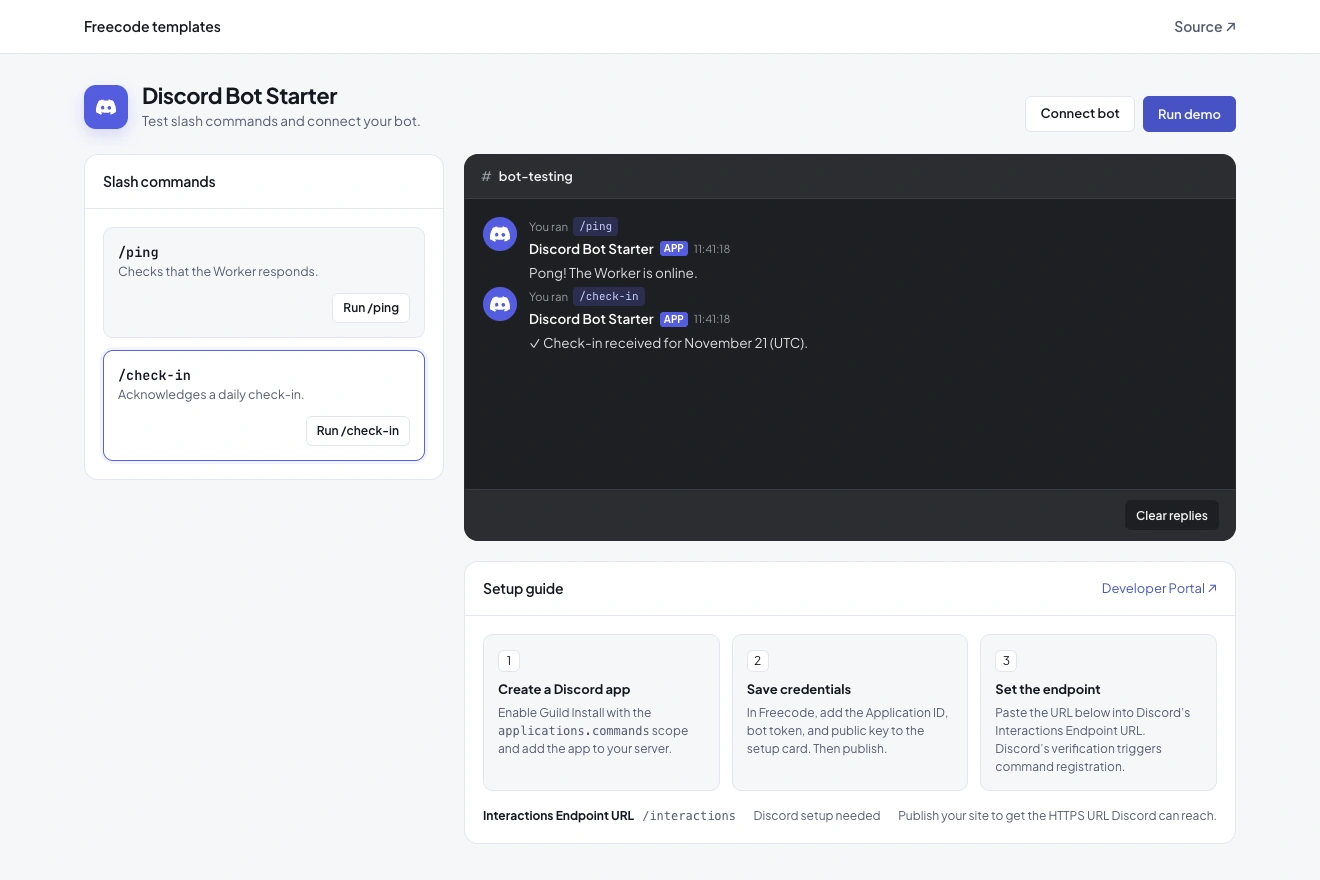
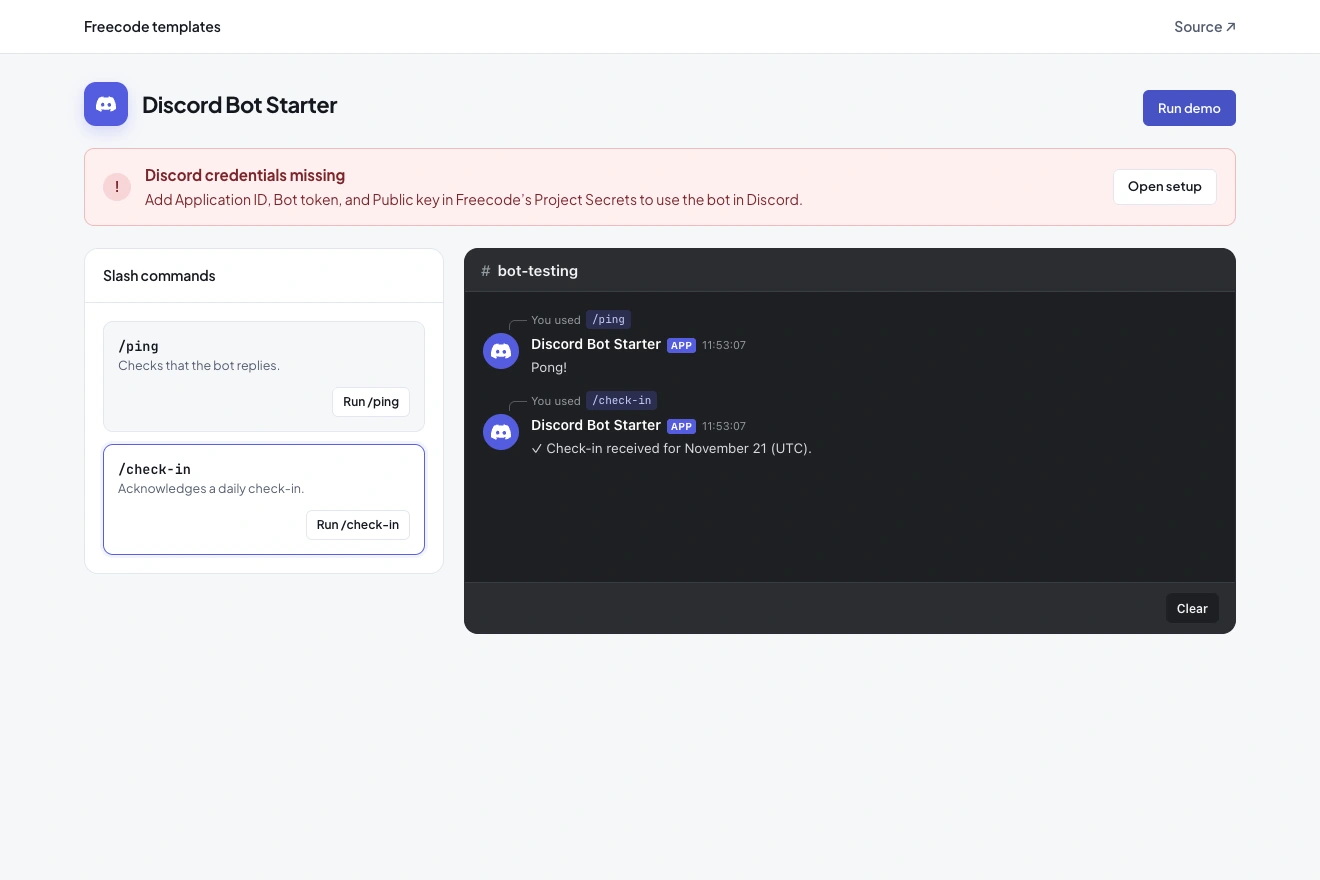
Show missing credentials and simplify Discord replies

diff --git a/public/index.html b/public/index.html
@@ -11,44 +11,51 @@
   <link rel="stylesheet" href="/styles.css">
 </head>
 <body>
-  <a class="skip-link" href="#console">Skip to content</a>
+  <a class="skip-link" href="#main">Skip to content</a>
   <header class="site-bar">
     <div class="site-bar-inner">
       <a href="https://freecode.sh/templates/discord-roll-call">Freecode templates</a>
       <a class="source-link" href="https://github.com/freecode-sh/discord-roll-call">Source <span aria-hidden="true">↗</span></a>
     </div>
   </header>
-  <main class="view-root" id="console">
-    <header class="dash-header">
-      <div class="dash-title-group">
-        <div class="bot-badge"><svg width="20" height="20" viewBox="0 0 24 24" fill="currentColor" aria-hidden="true"><path d="M20.317 4.37a19.791 19.791 0 0 0-4.885-1.515.074.074 0 0 0-.079.037c-.21.375-.444.864-.608 1.25a18.27 18.27 0 0 0-5.487 0 12.64 12.64 0 0 0-.617-1.25.077.077 0 0 0-.079-.037A19.736 19.736 0 0 0 3.677 4.37a.07.07 0 0 0-.032.027C.533 9.046-.32 13.58.099 18.057a.082.082 0 0 0 .031.057 19.9 19.9 0 0 0 5.993 3.03.078.078 0 0 0 .084-.028c.462-.63.874-1.295 1.226-1.994a.076.076 0 0 0-.041-.106 13.107 13.107 0 0 1-1.872-.892.077.077 0 0 1-.008-.128 10.2 10.2 0 0 0 .372-.292.074.074 0 0 1 .077-.01c3.928 1.793 8.18 1.793 12.062 0a.074.074 0 0 1 .078.01c.12.098.246.198.373.292a.077.077 0 0 1-.006.127 12.299 12.299 0 0 1-1.873.892.077.077 0 0 0-.041.107c.36.698.772 1.362 1.225 1.993a.076.076 0 0 0 .084.028 19.839 19.839 0 0 0 6.002-3.03.077.077 0 0 0 .032-.054c.5-5.177-.838-9.674-3.549-13.66a.061.061 0 0 0-.031-.028zM8.02 15.33c-1.183 0-2.157-1.085-2.157-2.419 0-1.333.956-2.419 2.157-2.419 1.21 0 2.176 1.096 2.157 2.42 0 1.333-.956 2.418-2.157 2.418zm7.975 0c-1.183 0-2.157-1.085-2.157-2.419 0-1.333.955-2.419 2.157-2.419 1.21 0 2.176 1.096 2.157 2.42 0 1.333-.946 2.418-2.157 2.418z"/></svg></div>
+  <main class="view-root" id="main">
+    <div class="dashboard-view" id="console">
+      <header class="dash-header">
+        <div class="dash-title-group">
+          <div class="bot-badge"><svg width="20" height="20" viewBox="0 0 24 24" fill="currentColor" aria-hidden="true"><path d="M20.317 4.37a19.791 19.791 0 0 0-4.885-1.515.074.074 0 0 0-.079.037c-.21.375-.444.864-.608 1.25a18.27 18.27 0 0 0-5.487 0 12.64 12.64 0 0 0-.617-1.25.077.077 0 0 0-.079-.037A19.736 19.736 0 0 0 3.677 4.37a.07.07 0 0 0-.032.027C.533 9.046-.32 13.58.099 18.057a.082.082 0 0 0 .031.057 19.9 19.9 0 0 0 5.993 3.03.078.078 0 0 0 .084-.028c.462-.63.874-1.295 1.226-1.994a.076.076 0 0 0-.041-.106 13.107 13.107 0 0 1-1.872-.892.077.077 0 0 1-.008-.128 10.2 10.2 0 0 0 .372-.292.074.074 0 0 1 .077-.01c3.928 1.793 8.18 1.793 12.062 0a.074.074 0 0 1 .078.01c.12.098.246.198.373.292a.077.077 0 0 1-.006.127 12.299 12.299 0 0 1-1.873.892.077.077 0 0 0-.041.107c.36.698.772 1.362 1.225 1.993a.076.076 0 0 0 .084.028 19.839 19.839 0 0 0 6.002-3.03.077.077 0 0 0 .032-.054c.5-5.177-.838-9.674-3.549-13.66a.061.061 0 0 0-.031-.028zM8.02 15.33c-1.183 0-2.157-1.085-2.157-2.419 0-1.333.956-2.419 2.157-2.419 1.21 0 2.176 1.096 2.157 2.42 0 1.333-.956 2.418-2.157 2.418zm7.975 0c-1.183 0-2.157-1.085-2.157-2.419 0-1.333.955-2.419 2.157-2.419 1.21 0 2.176 1.096 2.157 2.42 0 1.333-.946 2.418-2.157 2.418z"/></svg></div>
+          <div>
+            <h1 class="dash-title">Discord Bot Starter</h1>
+          </div>
+        </div>
+        <div class="dash-header-actions">
+          <a href="#setup" class="btn btn-secondary" id="manage-discord">Discord setup</a>
+          <button class="btn btn-primary" id="run-demo" type="button">Run demo</button>
+        </div>
+      </header>
+      <section id="discord-error" class="credential-alert" role="alert" hidden>
+        <span class="credential-alert-icon" aria-hidden="true">!</span>
         <div>
-          <h1 class="dash-title">Discord Bot Starter</h1>
-          <p class="dash-subtitle">Test slash commands and connect your bot.</p>
+          <h2 id="discord-error-title">Discord credentials missing</h2>
+          <p id="discord-error-details"></p>
         </div>
-      </div>
-      <div class="dash-header-actions">
-        <a href="#setup" class="btn btn-secondary">Connect bot</a>
-        <button class="btn btn-primary" id="run-demo" type="button">Run demo</button>
-      </div>
-    </header>
-    <div class="dash-grid">
-      <section class="panel" aria-labelledby="commands-heading">
-        <header class="panel-head"><h2 class="panel-title" id="commands-heading">Slash commands</h2></header>
-        <div class="panel-body cmd-list">
-          <article class="cmd-card">
-            <h3 class="cmd-name">/ping</h3>
-            <p class="cmd-desc">Checks that the Worker responds.</p>
-            <div class="cmd-actions"><button class="btn btn-secondary btn-sm" data-command="ping" type="button">Run /ping</button></div>
-          </article>
-          <article class="cmd-card">
-            <h3 class="cmd-name">/check-in</h3>
-            <p class="cmd-desc">Acknowledges a daily check-in.</p>
-            <div class="cmd-actions"><button class="btn btn-secondary btn-sm" data-command="check-in" type="button">Run /check-in</button></div>
-          </article>
-        </div>
+        <a href="#setup" class="btn btn-secondary">Open setup</a>
       </section>
-      <div class="stage-stack">
+      <div class="dash-grid">
+        <section class="panel" aria-labelledby="commands-heading">
+          <header class="panel-head"><h2 class="panel-title" id="commands-heading">Slash commands</h2></header>
+          <div class="panel-body cmd-list">
+            <article class="cmd-card">
+              <h3 class="cmd-name">/ping</h3>
+              <p class="cmd-desc">Checks that the bot replies.</p>
+              <div class="cmd-actions"><button class="btn btn-secondary btn-sm" data-command="ping" type="button">Run /ping</button></div>
+            </article>
+            <article class="cmd-card">
+              <h3 class="cmd-name">/check-in</h3>
+              <p class="cmd-desc">Acknowledges a daily check-in.</p>
+              <div class="cmd-actions"><button class="btn btn-secondary btn-sm" data-command="check-in" type="button">Run /check-in</button></div>
+            </article>
+          </div>
+        </section>
         <section class="discord-stage" aria-labelledby="replies-heading">
           <header class="discord-topbar">
             <h2 class="discord-channel" id="replies-heading"><span class="discord-hash" aria-hidden="true">#</span> bot-testing</h2>
@@ -59,42 +66,45 @@
           </div>
           <footer class="discord-footer-bar">
             <span class="visually-hidden" id="reply" role="status"></span>
-            <button type="button" id="reset" class="btn btn-sm" disabled>Clear replies</button>
+            <button type="button" id="reset" class="btn btn-sm" disabled>Clear</button>
           </footer>
-        </section>
-        <section class="panel setup-guide" id="setup" aria-labelledby="setup-heading">
-          <header class="panel-head">
-            <h2 class="panel-title" id="setup-heading">Setup guide</h2>
-            <a class="guide-link" href="https://discord.com/developers/applications" target="_blank" rel="noreferrer">Developer Portal <span aria-hidden="true">↗</span></a>
-          </header>
-          <div class="panel-body">
-            <ol class="guide-steps">
-              <li><span class="step-number" aria-hidden="true">1</span><h3>Create a Discord app</h3><p>Enable Guild Install with the <code>applications.commands</code> scope and add the app to your server.</p></li>
-              <li><span class="step-number" aria-hidden="true">2</span><h3>Save credentials</h3><p>In Freecode, add the Application ID, bot token, and public key to the setup card. Then publish.</p></li>
-              <li><span class="step-number" aria-hidden="true">3</span><h3>Set the endpoint</h3><p>Paste the URL below into Discord’s Interactions Endpoint URL. Discord’s verification triggers command registration.</p></li>
-            </ol>
-            <div class="setup-endpoint">
-              <div>
-                <strong>Interactions Endpoint URL</strong>
-                <code id="endpoint">/interactions</code>
-              </div>
-              <div>
-                <output id="signing-key" data-state="loading">Checking credentials</output>
-                <button id="copy-endpoint" type="button" class="btn btn-secondary btn-sm">Copy endpoint</button>
-              </div>
-              <p id="endpoint-description" hidden></p>
-              <p id="copy-status" class="visually-hidden" role="status"></p>
-            </div>
-          </div>
         </section>
       </div>
     </div>
+    <section id="setup" class="setup-view" hidden>
+      <a class="guide-link" href="#console">← Dashboard</a>
+      <section class="panel setup-guide" aria-labelledby="setup-heading">
+        <header class="panel-head">
+          <h2 class="panel-title" id="setup-heading">Setup guide</h2>
+          <a class="guide-link" href="https://discord.com/developers/applications" target="_blank" rel="noreferrer">Developer Portal <span aria-hidden="true">↗</span></a>
+        </header>
+        <div class="panel-body">
+          <ol class="guide-steps">
+            <li><span class="step-number" aria-hidden="true">1</span><h3>Create a Discord app</h3><p>Enable Guild Install with the <code>applications.commands</code> scope and add the app to your server.</p></li>
+            <li><span class="step-number" aria-hidden="true">2</span><h3>Save credentials</h3><p>In Freecode, add the Application ID, bot token, and public key to the setup card. Then publish.</p></li>
+            <li><span class="step-number" aria-hidden="true">3</span><h3>Set the endpoint</h3><p>Paste the URL below into Discord’s Interactions Endpoint URL. Discord’s verification triggers command registration.</p></li>
+          </ol>
+          <div class="setup-endpoint">
+            <div>
+              <strong>Interactions Endpoint URL</strong>
+              <code id="endpoint">/interactions</code>
+            </div>
+            <div>
+              <output id="signing-key" data-state="loading">Checking credentials</output>
+              <button id="copy-endpoint" type="button" class="btn btn-secondary btn-sm">Copy endpoint</button>
+            </div>
+            <p id="endpoint-description" hidden></p>
+            <p id="copy-status" class="visually-hidden" role="status"></p>
+          </div>
+        </div>
+      </section>
+    </section>
   </main>
   <template id="reply-template">
     <li class="discord-msg">
+      <div class="discord-slash-ref">You used <code class="discord-slash-pill"></code></div>
       <span class="discord-avatar" aria-hidden="true"><svg width="20" height="20" viewBox="0 0 24 24" fill="currentColor" aria-hidden="true"><path d="M20.317 4.37a19.791 19.791 0 0 0-4.885-1.515.074.074 0 0 0-.079.037c-.21.375-.444.864-.608 1.25a18.27 18.27 0 0 0-5.487 0 12.64 12.64 0 0 0-.617-1.25.077.077 0 0 0-.079-.037A19.736 19.736 0 0 0 3.677 4.37a.07.07 0 0 0-.032.027C.533 9.046-.32 13.58.099 18.057a.082.082 0 0 0 .031.057 19.9 19.9 0 0 0 5.993 3.03.078.078 0 0 0 .084-.028c.462-.63.874-1.295 1.226-1.994a.076.076 0 0 0-.041-.106 13.107 13.107 0 0 1-1.872-.892.077.077 0 0 1-.008-.128 10.2 10.2 0 0 0 .372-.292.074.074 0 0 1 .077-.01c3.928 1.793 8.18 1.793 12.062 0a.074.074 0 0 1 .078.01c.12.098.246.198.373.292a.077.077 0 0 1-.006.127 12.299 12.299 0 0 1-1.873.892.077.077 0 0 0-.041.107c.36.698.772 1.362 1.225 1.993a.076.076 0 0 0 .084.028 19.839 19.839 0 0 0 6.002-3.03.077.077 0 0 0 .032-.054c.5-5.177-.838-9.674-3.549-13.66a.061.061 0 0 0-.031-.028zM8.02 15.33c-1.183 0-2.157-1.085-2.157-2.419 0-1.333.956-2.419 2.157-2.419 1.21 0 2.176 1.096 2.157 2.42 0 1.333-.956 2.418-2.157 2.418zm7.975 0c-1.183 0-2.157-1.085-2.157-2.419 0-1.333.955-2.419 2.157-2.419 1.21 0 2.176 1.096 2.157 2.42 0 1.333-.946 2.418-2.157 2.418z"/></svg></span>
       <div class="discord-msg-body">
-        <div class="discord-slash-ref">You ran <code class="discord-slash-pill"></code></div>
         <div class="discord-author-row"><strong class="discord-author">Discord Bot Starter</strong><span class="discord-app-tag">APP</span><time class="discord-time"></time></div>
         <p class="discord-text"></p>
       </div>

diff --git a/public/demo.js b/public/demo.js
@@ -6,6 +6,16 @@ const demo = document.querySelector('#run-demo')
 const template = document.querySelector('#reply-template')
 const reset = document.querySelector('#reset')
 const key = document.querySelector('#signing-key')
+const manageDiscord = document.querySelector('#manage-discord')
+const setupError = document.querySelector('#discord-error')
+const errorTitle = document.querySelector('#discord-error-title')
+const errorDetails = document.querySelector('#discord-error-details')
+const credentialLabels = {
+  DISCORD_APP_ID: 'Application ID',
+  DISCORD_BOT_TOKEN: 'Bot token',
+  DISCORD_PUBLIC_KEY: 'Public key',
+}
+const credentialList = new Intl.ListFormat('en', { type: 'conjunction' })
 const endpoint = document.querySelector('#endpoint')
 const copy = document.querySelector('#copy-endpoint')
 const copyStatus = document.querySelector('#copy-status')
@@ -29,12 +39,22 @@ async function readWorkerStatus() {
     const response = await fetch('/api/status', { signal: AbortSignal.timeout(5000) })
     if (!response.ok) throw new Error('Status request failed')
     const status = await response.json()
-    if (status.worker !== 'online' || typeof status.discordConfigured !== 'boolean') throw new Error('Invalid status')
-    key.textContent = status.discordConfigured ? 'Credentials saved' : 'Discord setup needed'
-    key.dataset.state = status.discordConfigured ? 'ready' : 'missing'
+    if (status.worker !== 'online' || !Array.isArray(status.discordMissing)) throw new Error('Invalid status')
+    const missing = status.discordMissing.map(name => credentialLabels[name]).filter(Boolean)
+    key.textContent = missing.length ? 'Credentials missing' : 'Credentials saved'
+    key.dataset.state = missing.length ? 'missing' : 'ready'
+    manageDiscord.hidden = missing.length > 0
+    if (missing.length) {
+      errorDetails.textContent = `Add ${credentialList.format(missing)} in Freecode’s Project Secrets to use the bot in Discord.`
+      setupError.hidden = false
+    }
   } catch {
-    key.textContent = 'Couldn’t check Discord setup'
+    key.textContent = 'Couldn’t check credentials'
     key.dataset.state = 'unavailable'
+    manageDiscord.hidden = true
+    errorTitle.textContent = 'Couldn’t check Discord credentials'
+    errorDetails.textContent = 'Reload the dashboard to try again.'
+    setupError.hidden = false
   }
 }
 
@@ -118,4 +138,12 @@ copy.addEventListener('click', async () => {
   }
 })
 
+function showView() {
+  const setup = location.hash === '#setup'
+  document.querySelector('#setup').hidden = !setup
+  document.querySelector('#console').hidden = setup
+}
+
+window.addEventListener('hashchange', showView)
+showView()
 void readWorkerStatus()

diff --git a/public/styles.css b/public/styles.css
@@ -422,3 +422,67 @@ a {
   font-size: 10px;
   font-weight: 700;
 }
+
+.credential-alert {
+  display: grid;
+  grid-template-columns: auto minmax(0, 1fr) auto;
+  align-items: center;
+  gap: 14px;
+  margin-bottom: 22px;
+  padding: 15px 18px;
+  border: 1px solid #efbabb;
+  border-radius: var(--radius-md);
+  background: #fff0f0;
+  color: #7b252b;
+}
+
+.credential-alert-icon {
+  display: grid;
+  width: 28px;
+  height: 28px;
+  place-items: center;
+  border-radius: 50%;
+  background: #f8d5d7;
+  font-weight: 700;
+}
+
+.credential-alert h2 { margin: 0; font-size: 15px; }
+.credential-alert p { margin: 2px 0 0; }
+.setup-view { display: grid; gap: 16px; max-width: 900px; }
+.setup-view > a { width: fit-content; }
+.discord-stage { font-family: system-ui, sans-serif; }
+.discord-topbar { padding-block: 10px; }
+.discord-channel { font-size: 15px; }
+.discord-msg {
+  display: grid;
+  grid-template-columns: 36px minmax(0, 1fr);
+  gap: 2px 12px;
+  margin-block-end: 14px;
+}
+.discord-msg-body { grid-column: 2; }
+.discord-slash-ref {
+  grid-column: 2;
+  position: relative;
+  margin: 0;
+  padding-bottom: 2px;
+}
+.discord-slash-ref::before {
+  content: '';
+  position: absolute;
+  inset: 10px auto auto -22px;
+  width: 18px;
+  height: 10px;
+  border: solid #555861;
+  border-width: 1px 0 0 1px;
+  border-top-left-radius: 6px;
+}
+.discord-avatar { grid-column: 1; grid-row: 2; width: 36px; height: 36px; }
+.discord-author-row { align-items: baseline; }
+.discord-author { font-size: 14px; }
+.discord-time { font-size: 11px; }
+.discord-text { margin: 2px 0 0; color: #d8dbe0; }
+
+@media (width < 420px) {
+  .credential-alert { grid-template-columns: auto minmax(0, 1fr); gap: 8px; padding: 12px; }
+  .credential-alert .btn { grid-column: 2; justify-self: start; }
+}

diff --git a/test/roll-call.test.js b/test/roll-call.test.js
@@ -24,13 +24,16 @@ test('reports Worker and Discord configuration status without returning any Disc
   const configured = await worker.fetch(new Request(url), env)
   assert.equal(configured.status, 200)
   assert.equal(configured.headers.get('cache-control'), 'no-store')
-  assert.deepEqual(await configured.json(), { worker: 'online', discordConfigured: true })
+  assert.deepEqual(await configured.json(), { worker: 'online', discordConfigured: true, discordMissing: [] })
 
-  for (const missing of [
-    {}, { ...env, DISCORD_APP_ID: '123' }, { ...env, DISCORD_BOT_TOKEN: '' }, { ...env, DISCORD_PUBLIC_KEY: 'not-a-key' },
+  for (const [credentials, expectedMissing] of [
+    [{}, Object.keys(env)],
+    [{ ...env, DISCORD_APP_ID: '123' }, ['DISCORD_APP_ID']],
+    [{ ...env, DISCORD_BOT_TOKEN: '' }, ['DISCORD_BOT_TOKEN']],
+    [{ ...env, DISCORD_PUBLIC_KEY: 'not-a-key' }, ['DISCORD_PUBLIC_KEY']],
   ]) {
-    const response = await worker.fetch(new Request(url), missing)
-    assert.deepEqual(await response.json(), { worker: 'online', discordConfigured: false })
+    const response = await worker.fetch(new Request(url), credentials)
+    assert.deepEqual(await response.json(), { worker: 'online', discordConfigured: false, discordMissing: expectedMissing })
   }
 
   const post = await worker.fetch(new Request(url, { method: 'POST' }), env)

diff --git a/src/index.js b/src/index.js
@@ -1,6 +1,6 @@
 import { commandReply } from './commands.js'
 import { discordEndpoint } from './discord.js'
-import { discordCredentialsReady } from './register.js'
+import { missingDiscordCredentials } from './register.js'
 
 export default {
   fetch(request, env, ctx) {
@@ -8,9 +8,11 @@ export default {
     if (url.pathname === '/interactions') return discordEndpoint(request, env, ctx)
     if (url.pathname === '/api/status') {
       if (request.method !== 'GET') return new Response('Method not allowed', { status: 405, headers: { allow: 'GET' } })
+      const discordMissing = missingDiscordCredentials(env)
       return Response.json({
         worker: 'online',
-        discordConfigured: discordCredentialsReady(env),
+        discordConfigured: discordMissing.length === 0,
+        discordMissing,
       }, { headers: { 'cache-control': 'no-store' } })
     }
     if (url.pathname === '/api/demo') {

diff --git a/src/commands.js b/src/commands.js
@@ -1,6 +1,6 @@
 export const commands = [
   { name: 'check-in', description: 'Say you’re here today.' },
-  { name: 'ping', description: 'Check that The Worker is online.' },
+  { name: 'ping', description: 'Check that the bot replies.' },
 ]
 
 const dateLabel = new Intl.DateTimeFormat('en-US', { month: 'long', day: 'numeric', timeZone: 'UTC' })
@@ -8,7 +8,7 @@ const dateLabel = new Intl.DateTimeFormat('en-US', { month: 'long', day: 'numeri
 export function commandReply(command, date = new Date()) {
   switch (command) {
     case 'check-in': return `✓ Check-in received for ${dateLabel.format(date)} (UTC).`
-    case 'ping': return 'Pong! The Worker is online.'
+    case 'ping': return 'Pong!'
     default: return null
   }
 }

diff --git a/src/register.js b/src/register.js
@@ -1,9 +1,15 @@
 import { commands } from './commands.js'
 
+export function missingDiscordCredentials(env) {
+  const missing = []
+  if (!/^\d{17,20}$/.test(env.DISCORD_APP_ID ?? '')) missing.push('DISCORD_APP_ID')
+  if (!env.DISCORD_BOT_TOKEN?.trim()) missing.push('DISCORD_BOT_TOKEN')
+  if (!/^[a-f0-9]{64}$/i.test(env.DISCORD_PUBLIC_KEY ?? '')) missing.push('DISCORD_PUBLIC_KEY')
+  return missing
+}
+
 export function discordCredentialsReady(env) {
-  return /^\d{17,20}$/.test(env.DISCORD_APP_ID ?? '')
-    && Boolean(env.DISCORD_BOT_TOKEN?.trim())
-    && /^[a-f0-9]{64}$/i.test(env.DISCORD_PUBLIC_KEY ?? '')
+  return missingDiscordCredentials(env).length === 0
 }
 
 export async function registerCommands(env, guildId) {
